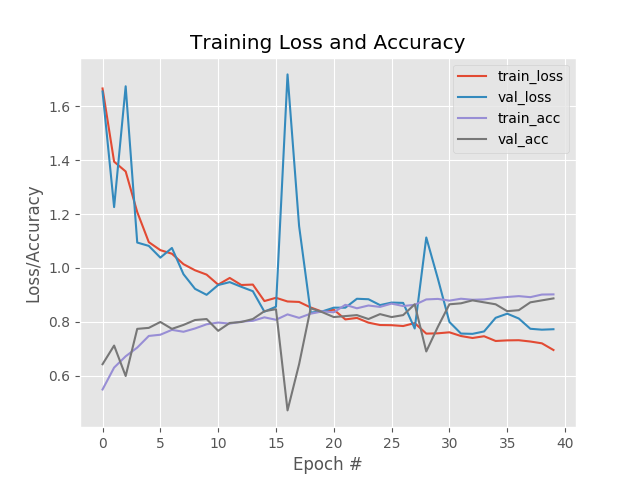
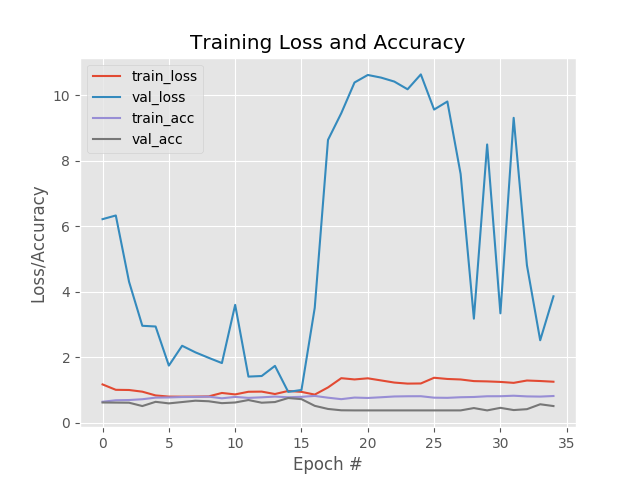
кластеризация с убиранием фоток не танков

diff --git a/training.py b/training.py
@@ -5,7 +5,7 @@ import cv2
 import os
 from sklearn.model_selection import train_test_split
 from keras.utils import to_categorical
-from sklearn.metrics import classification_report
+from sklearn.metrics import classification_report, precision_score
 import matplotlib.pyplot as plt
 from keras.callbacks import ModelCheckpoint
 from keras.models import load_model
@@ -82,87 +82,95 @@ from keras.layers.convolutional import MaxPooling2D
 from keras.preprocessing.image import ImageDataGenerator
 from keras.layers.convolutional import Convolution2D, MaxPooling2D, ZeroPadding2D
 from keras.optimizers import SGD
-model = Sequential()
 
-model.add(Conv2D(16, (7, 7), padding="valid",
-			kernel_initializer="he_normal", kernel_regularizer=l2(0.0005),
-			input_shape=(64, 64, 3)))
+l2s = [0.0001, 0.00001, 0.00005, 0.000001, 0.0000001, 0.0000005]
+answers = []
+for l in l2s:
+    l2_regul = l
+    print(l2_regul)
+    model = Sequential()
 
-model.add(Conv2D(32, (3, 3), padding="same", kernel_initializer="he_normal", kernel_regularizer=l2(0.0005)))
-model.add(Activation("relu"))
-model.add(BatchNormalization(axis=-1))
-model.add(Conv2D(32, (3, 3), padding="same", kernel_initializer="he_normal", kernel_regularizer=l2(0.0005)))
-model.add(Activation("relu"))
-model.add(BatchNormalization(axis=-1))
-model.add(MaxPooling2D(pool_size=(2, 2), strides=(2, 2)))
-model.add(Dropout(0.25))
+    model.add(Conv2D(16, (7, 7), padding="valid",
+                kernel_initializer="he_normal", kernel_regularizer=l2(l2_regul),
+                input_shape=(64, 64, 3)))
 
-model.add(Conv2D(64, (3, 3), padding="same", kernel_initializer="he_normal", kernel_regularizer=l2(0.0005)))
-model.add(Activation("relu"))
-model.add(BatchNormalization(axis=-1))
-model.add(Conv2D(64, (3, 3), padding="same", kernel_initializer="he_normal", kernel_regularizer=l2(0.0005)))
-model.add(Activation("relu"))
-model.add(BatchNormalization(axis=-1))
-model.add(MaxPooling2D(pool_size=(2, 2), strides=(2, 2)))
-model.add(Dropout(0.25))
+    model.add(Conv2D(32, (3, 3), padding="same", kernel_initializer="he_normal", kernel_regularizer=l2(l2_regul)))
+    model.add(Activation("relu"))
+    model.add(BatchNormalization(axis=-1))
+    model.add(Conv2D(32, (3, 3), padding="same", kernel_initializer="he_normal", kernel_regularizer=l2(l2_regul)))
+    model.add(Activation("relu"))
+    model.add(BatchNormalization(axis=-1))
+    model.add(MaxPooling2D(pool_size=(2, 2), strides=(2, 2)))
+    model.add(Dropout(0.25))
 
-
-model.add(Conv2D(128, (3, 3), padding="same", kernel_initializer="he_normal", kernel_regularizer=l2(0.0005))) # без этого 0.75
-model.add(Activation("relu"))
-model.add(BatchNormalization(axis=-1))
-model.add(Conv2D(128, (3, 3), padding="same", kernel_initializer="he_normal", kernel_regularizer=l2(0.0005)))
-model.add(Activation("relu"))
-model.add(BatchNormalization(axis=-1))
-model.add(MaxPooling2D(pool_size=(2, 2), strides=(2, 2)))
-model.add(Dropout(0.25))
-
-'''
-model.add(Conv2D(128, (3, 3), strides=(2, 2), padding="same", kernel_initializer="he_normal", kernel_regularizer=l2(0.0005)))
-model.add(Activation("relu"))
-model.add(BatchNormalization(axis=-1))
-model.add(Conv2D(128, (3, 3), strides=(2, 2), padding="same", kernel_initializer="he_normal", kernel_regularizer=l2(0.0005)))
-model.add(Activation("relu"))
-model.add(BatchNormalization(axis=-1))
-model.add(Dropout(0.25))
-'''
-
-model.add(Flatten())
-model.add(Dense(512, kernel_initializer="he_normal"))
-model.add(Activation("relu"))
-model.add(BatchNormalization())
-model.add(Dropout(0.5))
+    model.add(Conv2D(64, (3, 3), padding="same", kernel_initializer="he_normal", kernel_regularizer=l2(l2_regul)))
+    model.add(Activation("relu"))
+    model.add(BatchNormalization(axis=-1))
+    model.add(Conv2D(64, (3, 3), padding="same", kernel_initializer="he_normal", kernel_regularizer=l2(l2_regul)))
+    model.add(Activation("relu"))
+    model.add(BatchNormalization(axis=-1))
+    model.add(MaxPooling2D(pool_size=(2, 2), strides=(2, 2)))
+    model.add(Dropout(0.25))
 
 
+    model.add(Conv2D(128, (3, 3), padding="same", kernel_initializer="he_normal", kernel_regularizer=l2(l2_regul))) # без этого 0.75
+    model.add(Activation("relu"))
+    model.add(BatchNormalization(axis=-1))
+    model.add(Conv2D(128, (3, 3), padding="same", kernel_initializer="he_normal", kernel_regularizer=l2(l2_regul)))
+    model.add(Activation("relu"))
+    model.add(BatchNormalization(axis=-1))
+    model.add(MaxPooling2D(pool_size=(2, 2), strides=(2, 2)))
+    model.add(Dropout(0.25))
 
-# softmax classifier
-model.add(Dense(number_labels))
-model.add(Activation("softmax"))
+    '''
+    model.add(Conv2D(128, (3, 3), strides=(2, 2), padding="same", kernel_initializer="he_normal", kernel_regularizer=l2(0.0005)))
+    model.add(Activation("relu"))
+    model.add(BatchNormalization(axis=-1))
+    model.add(Conv2D(128, (3, 3), strides=(2, 2), padding="same", kernel_initializer="he_normal", kernel_regularizer=l2(0.0005)))
+    model.add(Activation("relu"))
+    model.add(BatchNormalization(axis=-1))
+    model.add(Dropout(0.25))
+    '''
 
-epochs = 40
-
-opt = SGD(lr=0.005, decay=0.005/epochs, momentum=0.9, nesterov=True) #decay=0.003/epochs
-checpoint = ModelCheckpoint('models/{0}_test.h5f'.format(dataset_path), monitor='val_loss', save_best_only=True, verbose=1)
-callbacks = [checpoint]
-model.compile(optimizer=opt, loss='binary_crossentropy', metrics=['accuracy']) #loss='categorical_crossentropy'
-
-aug = ImageDataGenerator(rotation_range=5, width_shift_range=[-0.1, 0, +0.1],
-	height_shift_range=[-0.1, 0, +0.1], shear_range=0.2, zoom_range=0.2,
-	horizontal_flip=True, fill_mode="constant")
+    model.add(Flatten())
+    model.add(Dense(512, kernel_initializer="he_normal", kernel_regularizer=l2(l2_regul)))
+    model.add(Activation("relu"))
+    model.add(BatchNormalization())
+    model.add(Dropout(0.5))
 
 
 
-#H = model.fit_generator(aug.flow(trainX, trainY, batch_size=128), validation_data=(testX, testY), steps_per_epoch=len(trainX) // 32, epochs=epochs, verbose=1, callbacks=callbacks, class_weight=classWeight)
+    # softmax classifier
+    model.add(Dense(number_labels))
+    model.add(Activation("softmax"))
 
-H = model.fit(trainX, trainY, epochs=epochs, validation_data=(testX, testY), verbose=1, batch_size=128, callbacks=callbacks, class_weight=classWeight)
-model = load_model('models/{0}_test.h5f'.format(dataset_path))
-#score, acc = model.evaluate(testX, testY, batch_size=164)
-#print(score, acc)
+    epochs = 35
 
-prediction = model.predict(testX)
-prediction = prediction.argmax(axis=1)
-print(classification_report(testY.argmax(axis=1), prediction, target_names=list_labels))
+    opt = SGD(lr=0.005, decay=0.005/epochs, momentum=0.9, nesterov=True) #decay=0.003/epochs
+    checpoint = ModelCheckpoint('models/{0}_test.h5f'.format(dataset_path), monitor='val_loss', save_best_only=True, verbose=1)
+    callbacks = [checpoint]
+    model.compile(optimizer=opt, loss='binary_crossentropy', metrics=['accuracy']) #loss='categorical_crossentropy'
+
+    aug = ImageDataGenerator(rotation_range=5, width_shift_range=[-0.1, 0, +0.1],
+        height_shift_range=[-0.1, 0, +0.1], shear_range=0.2, zoom_range=0.2,
+        horizontal_flip=True, fill_mode="constant")
+
+
+
+    #H = model.fit_generator(aug.flow(trainX, trainY, batch_size=128), validation_data=(testX, testY), steps_per_epoch=len(trainX) // 32, epochs=epochs, verbose=1, callbacks=callbacks, class_weight=classWeight)
+
+    H = model.fit(trainX, trainY, epochs=epochs, validation_data=(testX, testY), verbose=1, batch_size=128, callbacks=callbacks, class_weight=classWeight)
+    model = load_model('models/{0}_test.h5f'.format(dataset_path))
+    #score, acc = model.evaluate(testX, testY, batch_size=164)
+    #print(score, acc)
+
+    prediction = model.predict(testX)
+    prediction = prediction.argmax(axis=1)
+    print(classification_report(testY.argmax(axis=1), prediction, target_names=list_labels))
+    print(precision_score(testY.argmax(axis=1), prediction, average="weighted"))
+    answers.append((l2_regul, precision_score(testY.argmax(axis=1), prediction, average="weighted")))
 #model.save('model_tanks')
-
+print(answers)
 plt.style.use("ggplot")
 plt.figure()
 plt.plot(np.arange(0, epochs), H.history["loss"], label="train_loss")
@@ -183,6 +191,8 @@ print(len(y_preds))
 print(len(test_Y_nc))
 
 # Indices corresponding to test images which were mislabeled
+
+'''
 bad_test_idxs = np.where(testY!=y_preds)
 path_bad_img = 'bad_predict'
 for i in range(len(test_Y_nc)):
@@ -192,7 +202,7 @@ for i in range(len(test_Y_nc)):
         #imsave('{0}/{1}'.format(path_bad_img, i),  array_to_img(testX_nc[i]))
         img_s.save('{0}/{1}---{2}--{3}.png'.format(path_bad_img, list_labels[test_Y_nc[i]], list_labels[y_preds[i]], i ))
 
-
+'''
 
 
 

diff --git a/obj_detec.py b/obj_detec.py
@@ -1,0 +1,84 @@
+from pyimagesearch.helpers import pyramid
+from pyimagesearch.helpers import sliding_window
+import time
+import cv2
+from keras.models import load_model
+import numpy as np
+from keras.preprocessing.image import img_to_array
+from color_detec import get_color
+import random as rd
+
+# construct the argument parser and parse the arguments
+
+model = load_model('model_tanks')
+
+labels_dict = {}
+with open('dict_labels', 'r') as file:
+    for line in file:
+        if len(line) > 3:
+            items = line[:-1].split(' ')
+            labels_dict[int(items[1])] = items[0]
+
+# load the image and define the window width and height
+image = cv2.imread('st.jpeg')
+image_result = image.copy()
+color_list = []
+detected_list = []
+
+(winW, winH) = (min(image.shape[:2]), min(image.shape[:2]))
+m = 0
+model_frame_size = 64
+for r in range(0, 20):
+    (winW, winH) = (winW - 50, winH - 50)
+    if winH < model_frame_size / 2:
+        break
+    # for resized in pyramid(image, scale=1.01):
+    # loop over the sliding window for each layer of the pyramid
+    for (x, y, window) in sliding_window(image, stepSize=32, windowSize=(winW, winH)):
+        # if the window does not meet our desired window size, ignore it
+        if window.shape[0] != winH or window.shape[1] != winW:
+            continue
+        if get_color(window) > 35:
+            continue
+        im = cv2.resize(window, (model_frame_size, model_frame_size))
+
+        im = im.astype("float") / 255.0
+        im = img_to_array(im)
+        im = np.expand_dims(im, axis=0)
+
+        list_of_pred = model.predict(im)[0]
+        top = sorted(range(len(list_of_pred)), key=lambda i: list_of_pred[i], reverse=True)[:2]
+        print(labels_dict[top[0]], list_of_pred[top[1]])
+
+        if list_of_pred[top[1]] > 0.43:
+            print(labels_dict[top[0]], list_of_pred[top[1]])
+
+            cv2.imwrite('sample{0}_{1}.jpeg'.format(m, labels_dict[top[0]]), window)
+            cv2.rectangle(image, (x, y), (x + winW, y + winH), (0, 255, 0), cv2.FILLED)
+            color = (rd.randint(1, 255), rd.randint(1, 255), rd.randint(1, 255))
+            color_list.append(color)
+            detected_list.append((labels_dict[top[0]], list_of_pred[top[1]]))
+            cv2.rectangle(image_result, (x, y), (x + winW, y + winH), color, 2)
+            m = m + 1
+
+        # THIS IS WHERE YOU WOULD PROCESS YOUR WINDOW, SUCH AS APPLYING A
+        # MACHINE LEARNING CLASSIFIER TO CLASSIFY THE CONTENTS OF THE
+        # WINDOW
+
+        # since we do not have a classifier, we'll just draw the window
+        clone = image.copy()
+        cv2.rectangle(clone, (x, y), (x + winW, y + winH), (0, 255, 0), 2, cv2.FILLED)
+        cv2.imshow("Window", clone)
+        cv2.waitKey(1)
+        time.sleep(0.025)
+
+legend = np.zeros((image.shape[0], 300, 3), dtype="uint8")
+legend[:] = (255, 255, 255)
+for i in range(len(color_list)):
+    cv2.putText(legend, detected_list[i][0] + ' ' +  str(detected_list[i][1])[:6], (5, (i * 25) + 17),
+                cv2.FONT_HERSHEY_COMPLEX, 0.6, (0, 0, 0), 1)
+    cv2.rectangle(legend, (200, (i * 25)), (300, (i * 25) + 25),
+                  tuple(color_list[i]), -1)
+cv2.imwrite('legend.jpeg', legend)
+image_result = np.concatenate((image_result, legend), axis=1)
+cv2.imwrite('result_image.jpeg', image_result)

diff --git a/dir_claster.py b/dir_claster.py
@@ -1,11 +1,13 @@
 import os
 from sklearn.cluster import KMeans
-from sklearn.feature_extraction.text import  TfidfVectorizer
+from sklearn.feature_extraction.text import  TfidfVectorizer, CountVectorizer
 import random as rd
 from keras.models import load_model
 import cv2
 from keras.preprocessing.image import img_to_array
 import numpy as np
+import matplotlib.pyplot as plt
+from kneed import KneeLocator
 
 '''
 кластеризует собранные данные по папкам и удаляет пустные
@@ -15,10 +17,35 @@ import numpy as np
 model = load_model('models/tankNotTank_test.h5f')
 li_dir = os.listdir(path="truck-link/sample")
 
-vectorizer = TfidfVectorizer()
+vectorizer = CountVectorizer()
 X = vectorizer.fit_transform(li_dir)
-kmeans = KMeans(n_clusters=2).fit(X)
+
+
+
+clustno = range(1, 10)
+
+# Run MiniBatch Kmeans over the number of clusters
+kmeans_more = [KMeans(n_clusters=i) for i in clustno]
+
+# Obtain the score for each model
+score = [kmeans_more[i].fit(X).score(X) for i in range(len(kmeans_more))]
+kn = KneeLocator(clustno, score, curve='convex', direction='increasing')
+
+print(kn.knee)
+
+# Plot the models and their respective score
+plt.plot(clustno, score)
+plt.xlabel('Number of Clusters')
+plt.ylabel('Score')
+plt.title('Elbow Curve')
+plt.show()
+
+
+kmeans = KMeans(n_clusters=kn.knee).fit(X)
 print(kmeans.labels_)
+
+
+
 
 dick_paths = {}
 for i in range(len(li_dir)):
@@ -47,7 +74,7 @@ for key, value in dick_paths.items():
 
                 sourse = 'truck-link/sample/' + value[i] + '/' + item
                 destin = temp_path + str(rd.randint(10,10000000)) + '.jpeg'
-                if os.stat(sourse).st_size < 25000 or list_of_pred[0] > 0.6:
+                if os.stat(sourse).st_size < 25000 or list_of_pred[0] > 0.4:
                     os.remove(sourse)
                 else:
                     os.rename(sourse,  destin)

diff --git a/try_image.py b/try_image.py
@@ -11,6 +11,7 @@ image = np.expand_dims(image, axis=0)
 
 model = load_model('models/{0}_test.h5f'.format(dataset_path))
 
+
 labels_dict = {}
 with open('models/{0}_dict_labels'.format(dataset_path), 'r') as file:
     for line in file:
